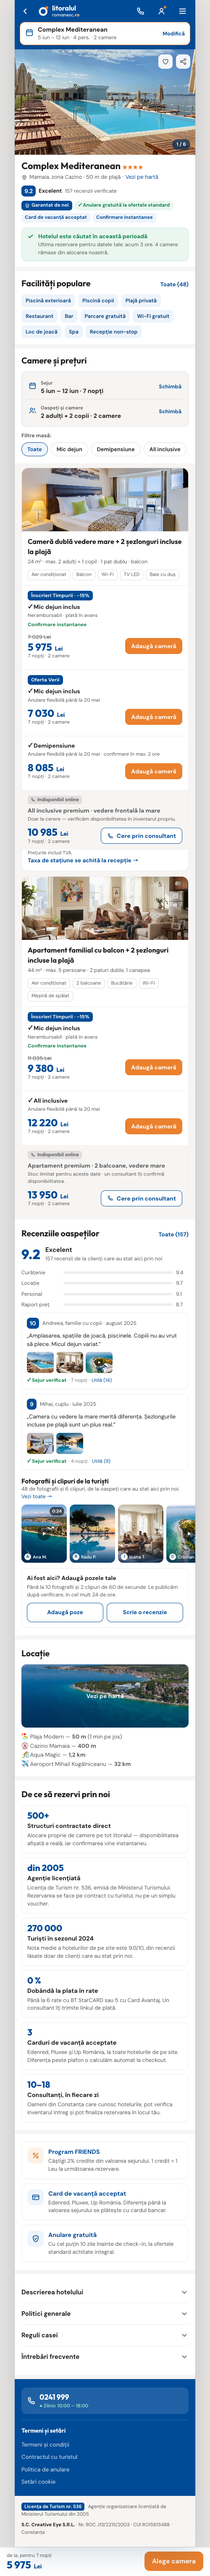
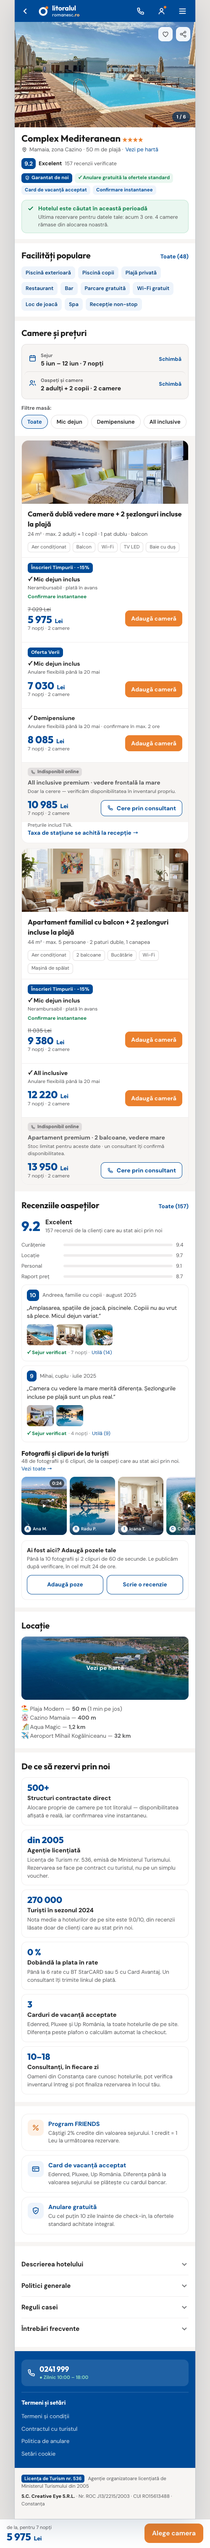
Give the hotel page the right bar for the right visitor
The two states were swapped on mobile: whoever arrived from our own listing
got a docked summary they no longer need, while a cold visitor got a full
search box pushing the hotel below the fold. Now it reads the way it should
— from our listing, nothing at the top at all; direct arrival, the compact
docked bar, which opens the same search sheet. The big in-page search box is
gone. Desktop already worked this way and is unchanged.

The stay bar in the rooms section now stays put while you scroll rooms —
comparing rooms is exactly when dates and guests need to be one tap away.
Desktop gets it from CSS (sticky inside #camere, which unsticks itself at
the end of the section, sitting under the docked bar when there is one).
Mobile can't: the bar lives in a short section while the room cards are the
next block, so it is fixed from JS over the whole rooms region, with a
spacer holding its place in the flow. Squeezed onto one row it drops
"· 7 nights" and "· 2 rooms" into a <span class="xtra"> the stuck state
hides — the bound spans stay inside, so paint() keeps them current.

Both follow the hotel switch in the prototype panel.

Changed region(s): [[0.06, 0.0, 0.93, 0.9954], [0.45, 0.4044, 0.87, 0.4977]]

diff --git a/proto-m.js b/proto-m.js
@@ -461,35 +461,17 @@
      Sunt comutatoare de demo, nu UI de produs: de aceea stau într-un
      panou plutitor, nu în pagină.
      ============================================================ */
-  /* Cine intră direct pe pagina hotelului (din Google, dintr-o reclamă) n-a
-     căutat încă nimic — îi arătăm bara de căutare. Cine vine din listing a
-     căutat deja, deci bara ar fi doar zgomot. */
+  /* Cine vine din listingul nostru a căutat deja: sus nu-i mai punem nimic, are
+     tot ecranul pentru hotel — iar datele le schimbă din bara de sejur de la camere.
+     Cine intră direct (Google, reclamă) n-a căutat nimic, deci primește bara compactă
+     de sus, care deschide același sheet de căutare. O casetă mare de căutare pe
+     pagina hotelului ar împinge hotelul sub linia de plutire. */
   function applySession() {
     if (PAGE() !== 'hotel') return;
     const nu = document.body.dataset.session === 'new';
-    let box = $('.hotel-search');
-    if (nu && !box) {
-      box = el('section', 'sect tight hotel-search');
-      box.innerHTML = '<div class="sbox" style="box-shadow:none;border:1.5px solid var(--gray-400);padding:6px">' +
-        '<button class="sfield" data-f="dest"><span class="ic"><svg width="20" height="20"><use href="#i-pin"/></svg></span>' +
-        '<span><span class="lbl">' + t('Unde mergi?', 'Where to?') + '</span><br><span class="val" data-bind="dest"></span></span></button>' +
-        '<button class="sfield" data-f="date"><span class="ic"><svg width="20" height="20"><use href="#i-cal"/></svg></span>' +
-        '<span><span class="lbl">' + t('Când călătorești?', 'When?') + '</span><br><span class="val" data-bind="dates"></span></span></button>' +
-        '<button class="sfield" data-f="guests"><span class="ic"><svg width="20" height="20"><use href="#i-users"/></svg></span>' +
-        '<span><span class="lbl">' + t('Oaspeți și camere', 'Guests and rooms') + '</span><br><span class="val"><span data-bind="guests"></span>, <span data-bind="rooms"></span></span></span></button>' +
-        '<button class="btn btn-primary btn-block" data-go>' + t('Caută', 'Search') + ' <svg width="18" height="18"><use href="#i-search"/></svg></button></div>';
-      const gal = $('.gal');
-      if (gal) gal.before(box); else document.body.prepend(box);
-      $$('.sfield', box).forEach(f => f.onclick = () => {
-        const k = f.dataset.f;
-        if (k === 'dest') destSheet(paint); else if (k === 'date') calSheet(paint); else guestsSheet(paint);
-      });
-      $('[data-go]', box).onclick = () => { save(); goto('m-listing.html'); };
-      paint();
-    }
-    if (box) box.style.display = nu ? '' : 'none';
     const sum = $('.m-sum');
-    if (sum) sum.style.display = nu ? 'none' : '';
+    if (sum) sum.style.display = nu ? '' : 'none';
+    if (stickySync) stickySync();
   }
 
   let onInventory = null;   // callback setat de listing
@@ -657,6 +639,7 @@
       } else {
         host.classList.toggle('mini', want && scrollY > 130);
       }
+      if (roomsStickySync) roomsStickySync();
     };
     stickySync = sync;
     const queue = () => { if (!queued) { queued = true; requestAnimationFrame(sync); } };
@@ -664,6 +647,61 @@
     window.addEventListener('resize', queue);
     sync();
   }
+
+  /* Bara de sejur din secțiunea de camere: cât timp compari camere, datele și
+     oaspeții trebuie să fie la un tap, nu la un scroll înapoi. Pe desktop asta se
+     rezolvă din CSS (`position: sticky` în #camere), aici nu se poate: bara stă
+     într-o secțiune scurtă, iar cardurile de cameră sunt în blocul următor, deci
+     sticky s-ar dezlipi imediat. O fixăm din JS pe toată zona camerelor, cu un
+     spacer care ține locul din flux ca să nu sară pagina. */
+  function initRoomsSticky() {
+    if (PAGE() !== 'hotel') return;
+    const bar = $('.stay-bar');
+    const cards = $$('.room-card');
+    if (!bar || !cards.length) return;
+    const region = cards[cards.length - 1].parentElement;
+    const spacer = el('div', 'stay-spacer');
+    bar.after(spacer);
+    /* Strânsă, bara are ~180 px per câmp: „· 7 nopți" și „· 2 camere" nu mai încap.
+       Le mutăm într-un <span class="xtra"> pe care CSS-ul îl ascunde când e lipită —
+       spanurile cu data-bind rămân în el, deci paint() le ține în continuare la zi. */
+    $$('.f', bar).forEach(f => {
+      const val = $('.val', f);
+      const first = val && $('[data-bind]', val);
+      if (!first || $('.xtra', val)) return;
+      const xtra = el('span', 'xtra');
+      while (first.nextSibling) xtra.appendChild(first.nextSibling);
+      val.appendChild(xtra);
+    });
+    const topOffset = () => {
+      const h = $('.m-head'), sum = $('.m-sum');
+      const hh = h ? h.getBoundingClientRect().height : 56;
+      const sh = sum && sum.style.display !== 'none' ? sum.getBoundingClientRect().height : 0;
+      return hh + sh;
+    };
+    let queued = false;
+    const sync = () => {
+      queued = false;
+      const want = document.body.dataset.stickyHotel !== 'off' && !document.body.dataset.export;
+      const off = topOffset();
+      const on = want && spacer.getBoundingClientRect().top <= off &&
+        region.getBoundingClientRect().bottom > off + 64;
+      if (on) {
+        spacer.style.height = spacer.style.height || bar.offsetHeight + 'px';
+        bar.style.top = off + 'px';
+        bar.classList.add('stuck');
+      } else {
+        bar.classList.remove('stuck');
+        spacer.style.height = '';
+      }
+    };
+    roomsStickySync = sync;
+    const queue = () => { if (!queued) { queued = true; requestAnimationFrame(sync); } };
+    window.addEventListener('scroll', queue, { passive: true });
+    window.addEventListener('resize', queue);
+    sync();
+  }
+  let roomsStickySync = null;
 
   /* ============================================================
      CARD FIXAT PE CARUSELUL DE CAMPANII (mecanism de „pin")
@@ -2035,6 +2073,7 @@
     initFlexi();
     initListing();
     initHotel();
+    initRoomsSticky();
     initAccordions();
     initCheckout();
     initThanks();

diff --git a/index.html b/index.html
@@ -39,7 +39,7 @@
   <div class="note" style="margin:0 0 22px;background:#EAF7F0;border-color:#BFE5D2;color:#0B5E38">
     <b>▶ Varianta aleasă: C.</b> Fluxul complet — homepage → listing → detalii hotel → checkout → confirmare — este acum <b>varianta C (atelier)</b>, disponibilă în <b>română</b> și <b>engleză</b> (switch RO/EN pe pagină). Selectorul de variante a fost eliminat; variantele <b>A</b> și <b>B</b> rămân arhivate mai jos, ca referință. <b>Homepage · D</b> este o alternativă de atelier: aceeași bază C, dar cu listingul de oferte chiar sub căutare (ideea din varianta B).<br><br>
     <b>▶ Prototip interactiv, nu un mockup.</b> Deschide oricare ecran și clic: caută o stațiune, schimbă datele în calendar (prețurile se recalculează pe zi), filtrează, deschide galeria, alege o cameră, aplică codul promo <code>LITORAL10</code>, bifează condițiile și finalizează rezervarea — starea se transmite de la un ecran la altul.<br><br>
-    <b>▶ Nou: bară de căutare lipită sus.</b> Când caseta mare de căutare iese din ecran, aceleași câmpuri se strâng într-o bară fixată sus — minimizată, dar complet funcțională: deschide exact aceleași popovere de destinație / calendar / oaspeți. Trei comutatoare <b>independente</b> în panoul de prototip (<i>homepage</i>, <i>listing</i>, <i>pagina hotelului</i>), pe desktop și pe mobil; pe pagina hotelului bara respectă regula de azi — apare doar pentru vizitatorul nou.<br><br>
+    <b>▶ Nou: bară de căutare lipită sus.</b> Când caseta mare de căutare iese din ecran, aceleași câmpuri se strâng într-o bară fixată sus — minimizată, dar complet funcțională: deschide exact aceleași popovere de destinație / calendar / oaspeți. Trei comutatoare <b>independente</b> în panoul de prototip (<i>homepage</i>, <i>listing</i>, <i>pagina hotelului</i>), pe desktop și pe mobil. Pe <b>pagina hotelului</b>: cine vine din listingul nostru a căutat deja, deci sus nu are nimic — datele le schimbă din <b>bara de sejur de la camere, care rămâne lipită cât ține secțiunea de camere</b>; cine intră direct primește sus bara compactă de căutare.<br><br>
     <b>▶ Nou: card fixat pe caruselul de campanii.</b> Primul loc din carusel poate fi scos din rotație, ca să nu depindă de norocul autoplay-ului. Două moduri, la comutator: <b>„Linie"</b> — primul card, evidențiat, cu restul campaniilor trecând pe lângă el, și <b>„Banner"</b> — bandă lată deasupra caruselului. Creația („Superofertele verii") e text real, nu un JPG: iese editabilă în Figma și există în RO și EN.
   </div>
 
@@ -68,7 +68,7 @@
   <div class="pages">
     <div class="pg"><img src="preview-m-home.png" alt=""><div class="b"><h3>Mobile · Acasă <span style="color:#EB802D">RO · EN</span></h3><p>Carusel de campanii cu <b>primul card fixat</b> (în linie sau banner), hero cu căutarea, <b>pastilă de căutare lipită sub antet</b> la derulare, inspirație, oferte, stațiuni, trust band.</p><a href="m-home.html">RO</a> <a class="alt" href="m-home-en.html">EN</a></div></div>
     <div class="pg"><img src="preview-m-listing.png" alt=""><div class="b"><h3>Mobile · Rezultate <span style="color:#EB802D">RO · EN</span></h3><p>Rezumat de căutare lipit sus (<b>se strânge pe un rând</b> la derulare, cu comutator în panou), Filtre/Sortare/Hartă în sheet-uri, carduri cu galerie și carusel de camere, trei densități de celulă.</p><a href="m-listing.html">RO</a> <a class="alt" href="m-listing-en.html">EN</a></div></div>
-    <div class="pg"><img src="preview-m-hotel.png" alt=""><div class="b"><h3>Mobile · Detalii hotel <span style="color:#EB802D">RO · EN</span></h3><p>Galerie swipe care se deschide în <b>mozaic → imagine mare peste același mozaic</b>, cu <b>zoom pe tot ecranul</b> (pinch / dublu-tap); fotografii de la turiști sub recenzii + încărcare proprie, editare inline a datelor, camere cu stepper ±, camere „la cerere”, bară de rezervare care urcă de jos.</p><a href="m-hotel.html">RO</a> <a class="alt" href="m-hotel-en.html">EN</a></div></div>
+    <div class="pg"><img src="preview-m-hotel.png" alt=""><div class="b"><h3>Mobile · Detalii hotel <span style="color:#EB802D">RO · EN</span></h3><p>Galerie swipe care se deschide în <b>mozaic → imagine mare peste același mozaic</b>, cu <b>zoom pe tot ecranul</b> (pinch / dublu-tap); fotografii de la turiști sub recenzii + încărcare proprie, editare inline a datelor din <b>bara de sejur lipită cât ține secțiunea de camere</b>, camere cu stepper ±, camere „la cerere”, bară de rezervare care urcă de jos.</p><a href="m-hotel.html">RO</a> <a class="alt" href="m-hotel-en.html">EN</a></div></div>
     <div class="pg"><img src="preview-m-checkout.png" alt=""><div class="b"><h3>Mobile · Checkout <span style="color:#EB802D">RO · EN</span></h3><p>Stepper în 3 pași, avans editabil (min. 30%), card de vacanță, rate, cod promo, condiții de anulare, bară fixă cu suma de azi.</p><a href="m-checkout.html">RO</a> <a class="alt" href="m-checkout-en.html">EN</a></div></div>
     <div class="pg"><img src="preview-m-thankyou.png" alt=""><div class="b"><h3>Mobile · Confirmare <span style="color:#EB802D">RO · EN</span></h3><p>Stare plată + „plătește restul”, pașii următori, <b>documente cu bifă verde / clepsidră gri</b>, credite FRIENDS, condiții de anulare.</p><a href="m-thankyou.html">RO</a> <a class="alt" href="m-thankyou-en.html">EN</a></div></div>
   </div>

diff --git a/litro-m.css b/litro-m.css
@@ -443,6 +443,20 @@ body[data-auth="in"] .band-loyal { display: none; }
 .stay-bar .f .lbl { font-size: 11.5px; color: var(--gray-700); font-weight: 600; }
 .stay-bar .f .val { font-weight: 700; font-size: 14.5px; }
 .stay-bar .f .chg { margin-left: auto; color: var(--navy-500); font-weight: 700; font-size: 12.5px; }
+/* lipită cât ține zona camerelor: două câmpuri pe un rând, fără etichete —
+   minimă, dar deschide aceleași sheet-uri de dată/oaspeți */
+.stay-spacer { height: 0; }
+.stay-bar.stuck { position: fixed; left: 0; right: 0; z-index: 53; margin: 0; padding: 7px 12px;
+  display: flex; gap: 8px; border-radius: 0; border-width: 0 0 1px; background: #fff;
+  box-shadow: 0 6px 18px rgba(1,43,85,.16); }
+.stay-bar.stuck .f { flex: 1; min-width: 0; min-height: 0; padding: 7px 9px; gap: 8px;
+  border: 1px solid var(--gray-400); border-radius: 10px; background: var(--gray-200); }
+.stay-bar.stuck .f + .f { border-top: 1px solid var(--gray-400); }
+.stay-bar.stuck .f .lbl, .stay-bar.stuck .f br, .stay-bar.stuck .f .chg { display: none; }
+/* fără min-width:0 pe spanul de text, câmpul refuză să se strângă și iese din ecran */
+.stay-bar.stuck .f > span:last-child { flex: 1; min-width: 0; }
+.stay-bar.stuck .f .val { font-size: 13px; white-space: nowrap; overflow: hidden; text-overflow: ellipsis; display: block; }
+.stay-bar.stuck .f .val .xtra { display: none; }   /* „· 7 nopți" / „· 2 camere" — nu încap pe un rând */
 
 .meal-chips { display: flex; gap: 7px; overflow-x: auto; padding-bottom: 3px; scrollbar-width: none; }
 .meal-chips::-webkit-scrollbar { display: none; }

diff --git a/proto.css b/proto.css
@@ -499,6 +499,14 @@ body[data-auth="in"] .loyal-band { display: none; }
 }
 /* popoverele mutate în bară moștenesc poziționarea din .pop, dar au nevoie de spațiu deasupra tuturor */
 .ssearch .pop { z-index: 810; }
+
+/* Bara de sejur din secțiunea de camere rămâne lipită cât ține secțiunea: cât timp
+   compari camere, datele și oaspeții trebuie să fie la un clic, nu la un scroll înapoi.
+   Nu e nevoie de JS — sticky se dezlipește singur la capătul lui #camere. */
+body[data-page="hotel"] .stay-bar { position: sticky; top: 12px; z-index: 30; }
+/* pentru vizitatorul nou bara de căutare e lipită sus, deci sejurul se așază sub ea */
+body[data-page="hotel"][data-session="new"] .stay-bar { top: 74px; }
+body[data-page="hotel"][data-sticky-hotel="off"] .stay-bar { position: relative; top: auto; }
 /* pagina împinsă în jos cât bara, ca ancora să nu sară când se lipește */
 body[data-export] .ssearch { display: none; }
 

diff --git a/proto.js b/proto.js
@@ -1779,7 +1779,9 @@
     /* --- stay-bar: editare inline a datelor/oaspeților CHIAR AICI (fără redirect la search-ul de sus → listing) --- */
     const stayBar = $('.stay-bar');
     if (stayBar) {
-      stayBar.style.position = 'relative';
+      /* popoverele au nevoie de un părinte poziționat — dar nu suprascriem `sticky`,
+         care ține bara lipită cât ține secțiunea de camere */
+      if (getComputedStyle(stayBar).position === 'static') stayBar.style.position = 'relative';
       const sf = $$('.f', stayBar);
       const fdate = sf[0], fguests = sf[1], frooms = sf[2], modif = $('.btn', stayBar);
       const openD = e => { if (e) e.stopPropagation(); if (searchOpenCal) searchOpenCal(fdate || stayBar, stayBar); };
